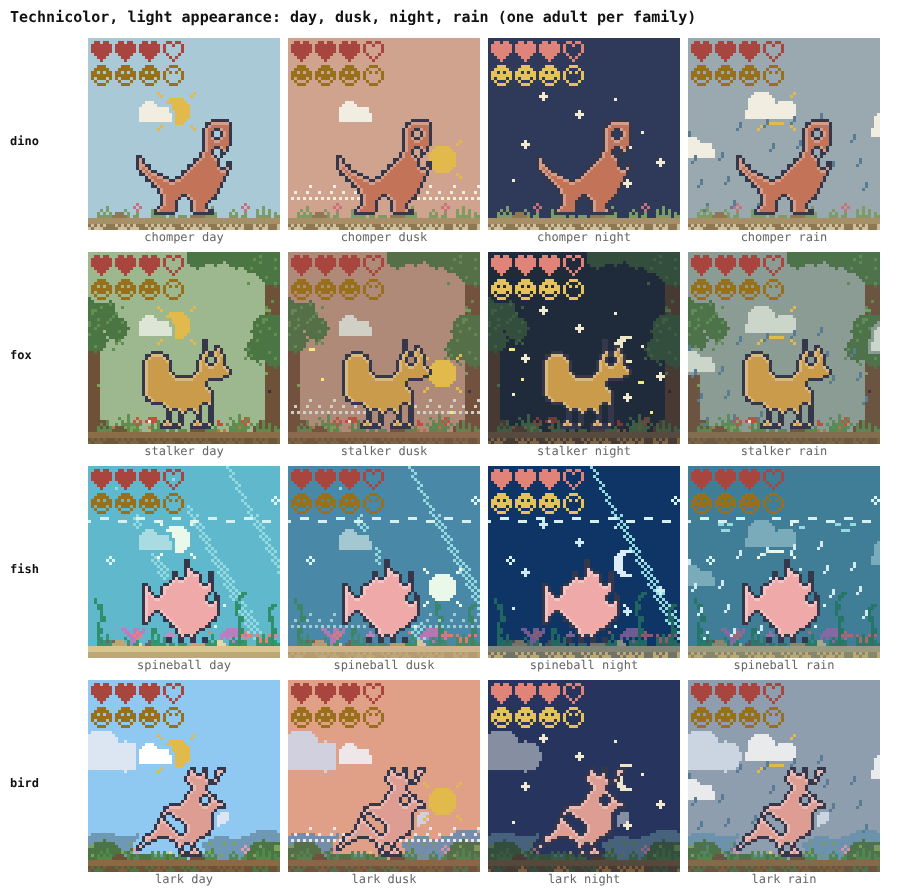
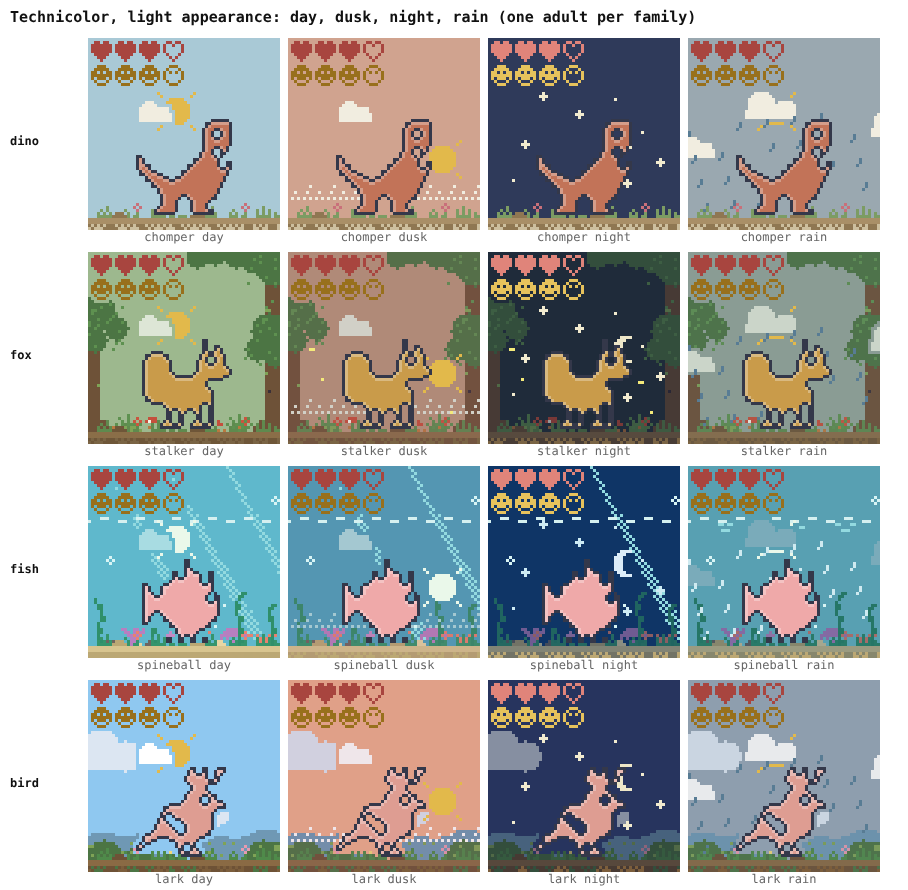
Biomes: tests (test/biomes.ts), docs, sheets, underwater sky contrast
Claude-Session: https://claude.ai/code/session_018fbADevjekvnXJm6DE1cKa

Changed region(s): [[0.7401, 0.5157, 0.9868, 0.7281]]

diff --git a/expo-prototype/test/biomes.ts b/expo-prototype/test/biomes.ts
@@ -1,0 +1,240 @@
+// Biomes: family mapping, drawing in every stage and phase, the pet is never covered, Traditional stays plain, palette completeness.
+import { forceSpecies, newPet, type Pet } from '../src/core/pet';
+import { FAMILIES, SPECIES } from '../src/core/speciesData';
+import { ALWAYS_DARK, BIOMES, EMBER_SPIRITS, FAMILY_BIOME, biomeOf, biomeOfSpecies, type Biome } from '../src/ui/biomes';
+import { ALL_LAYERS, DIM_FLAG, LAYER_COUNT, LAYER_MASK, Layer, SCENERY_FROM, tradVisible } from '../src/ui/layers';
+import { contrast, darkSky, paletteTable, skyFor, soilFor, type PaletteCtx } from '../src/ui/palette';
+import { Buf, litPath } from '../src/ui/pixel';
+import { buildFrame } from '../src/ui/render';
+import { GROUND_TAP_Y, GROUND_Y, SCENE_N, TICK_MS, initScene, phaseOf, type Phase, type Scene } from '../src/ui/scene';
+import { drawScene } from '../src/ui/sceneDraw';
+import { renderScreen } from '../src/ui/screens';
+import { hashMask } from './hash';
+import { sceneCases, lit, T0 } from './cases';
+import { GOLDEN } from './golden-traditional';
+
+declare const require: (m: string) => any; // node types are not installed; this file runs under tsx
+const { existsSync, readFileSync } = require('fs');
+let fails = 0, checks = 0;
+const ok = (c: boolean, m: string) => { checks++; if (!c) { fails++; console.log('FAIL', m); } };
+const HEX = /^#[0-9a-f]{6}$/i;
+const PHASES: Phase[] = ['dawn', 'day', 'dusk', 'night'];
+const HOURS: Record<Phase, number> = { dawn: 6, day: 12, dusk: 19, night: 23 };
+const PET_LAYERS = new Set<number>([Layer.OUTLINE, Layer.BODY, Layer.BODY_LIGHT]);
+const isCue = (l: number) => l === Layer.WAVE || l === Layer.HOLE || l === Layer.PEAK;
+
+function petOf(id: string, seed = 11): Pet {
+  const p = newPet(T0, { seed }); forceSpecies(p, id); p.named = true; p.hunger = 3; p.happy = 3; p.poops = 0; p.call = null;
+  return p;
+}
+function sceneOf(p: Pet, hour: number, x: number, facing: 1 | -1, rain = false, extra: Partial<Scene> = {}): Scene {
+  return { ...initScene(p, T0, hour), state: 'idle', x, facing, still: false, dim: false, weather: rain ? 'rain' : 'clear', poopMask: 0, props: [], pops: [], hour, minute: 0, t: 0, nowMs: T0 + 3700, ...extra };
+}
+const render = (p: Pet, sc: Scene, biome?: Biome) => { const b = new Buf(SCENE_N); drawScene(b, sc, p, biome); return b; };
+
+// 1. every family maps to a biome; spirits split by line
+{
+  for (const f of FAMILIES) ok(!!FAMILY_BIOME[f.id] && BIOMES.includes(FAMILY_BIOME[f.id]), `family ${f.id} has a biome`);
+  ok(Object.keys(FAMILY_BIOME).length === FAMILIES.length, 'no stray family in FAMILY_BIOME');
+  ok(new Set(Object.values(FAMILY_BIOME)).size === FAMILIES.length, 'each family has its own biome');
+  ok(FAMILY_BIOME.dino === 'meadow', 'dino keeps the meadow');
+  for (const s of SPECIES) {
+    const b = biomeOfSpecies(s.id, s.family);
+    ok(BIOMES.includes(b) && b !== 'meadow' === (s.family !== 'dino'), `${s.id} biome ${b}`);
+    ok(biomeOf(petOf(s.id)) === b, `${s.id}: pet biome follows the species`);
+    if (s.family === 'spirits') ok((b === 'ember') === EMBER_SPIRITS.has(s.id), `${s.id} ember split`);
+    else ok(b === FAMILY_BIOME[s.family], `${s.id} follows its family`);
+  }
+  ok(biomeOf(newPet(T0, { family: 'fish' })) === 'underwater', 'an unhatched fish egg already maps to underwater');
+  const py = '../tools/families/spirits.py';
+  if (existsSync(py)) {
+    const txt = readFileSync(py, 'utf8');
+    const m = txt.match(/LINE = \{([\s\S]*?)\n\}/);
+    const pairs = [...(m?.[1] ?? '').matchAll(/'(spirits_\w+)': '(\w+)'/g)];
+    ok(pairs.length >= 30, `parsed ${pairs.length} spirit lines from spirits.py`);
+    for (const [, id, line] of pairs) ok(EMBER_SPIRITS.has(id) === ['imp', 'horn', 'soot'].includes(line), `${id} (${line}) ember membership matches spirits.py`);
+    ok(pairs.filter(([, , l]) => l === 'halo' || l === 'baby').every(([, id]) => biomeOfSpecies(id, 'spirits') === 'clouds'), 'halo and baby spirits stay in the cloud realm');
+  }
+}
+
+// 2. biomes draw without throwing for every species (all stages), every phase, dry and rainy, both facings, with props and poops
+{
+  let drawn = 0, threw = 0;
+  const stages = new Set<string>();
+  for (const sp of SPECIES) {
+    stages.add(sp.stage);
+    const p = petOf(sp.id);
+    for (const ph of PHASES) for (const rain of [false, true]) {
+      try {
+        const sc = sceneOf(p, HOURS[ph], ph === 'dawn' ? 0 : 32, ph === 'dusk' ? -1 : 1, rain, { poopMask: ph === 'night' ? 7 : 0, props: [{ g: 'food:meat', x: 40, y: 51, n: 1, side: 1 }, { g: 'broom', x: 5, y: 51 }, { g: 'foe', x: 30, y: 44, n: 3 }], dim: ph === 'night' && rain });
+        render(p, sc); drawn++;
+      } catch (e) { threw++; console.log('  threw', sp.id, ph, String(e)); }
+    }
+  }
+  ok(threw === 0, `no biome draw throws (${drawn} draws, ${threw} threw)`);
+  ok(stages.size === 5, 'all five stages covered');
+  // every state of the scene director draws in every biome
+  const p = petOf(SPECIES.find((s) => s.family === 'fox' && s.stage === 'adult')!.id);
+  for (const b of BIOMES) for (const st of ['idle', 'walk', 'sleep', 'eat', 'battle', 'dance', 'poop'] as const) {
+    try { render(p, sceneOf(p, 12, 10, 1, false, { state: st }), b); } catch { ok(false, `state ${st} in ${b}`); }
+  }
+}
+
+// 3. the pet is never overwritten, scenery keeps off its silhouette, and the shared meadow layers are untouched
+{
+  let petPix = 0, bad = 0, ringBad = 0, sharedBad = 0, cases = 0;
+  for (const sp of SPECIES.filter((s) => s.family !== 'dino')) {
+    const p = petOf(sp.id, 3);
+    for (const [ph, x, facing] of [['day', 0, 1], ['night', 16, -1], ['dusk', 32, 1], ['dawn', 9, -1]] as [Phase, number, 1 | -1][]) {
+      const sc = sceneOf(p, HOURS[ph], x, facing, ph === 'dawn');
+      const a = render(p, sc), m = render(p, sc, 'meadow');
+      cases++;
+      for (let i = 0; i < a.px.length; i++) {
+        const la = a.px[i] & LAYER_MASK, lm = m.px[i] & LAYER_MASK;
+        if (PET_LAYERS.has(lm)) { petPix++; if (a.px[i] !== m.px[i]) bad++; }
+        // shared layers identical to the meadow render, ignoring scenery and cue pixels
+        const na = la >= Layer.WAVE ? a.px[i] & DIM_FLAG : a.px[i], nm = lm >= Layer.WAVE ? m.px[i] & DIM_FLAG : m.px[i];
+        if (na !== nm) sharedBad++;
+        if (la >= SCENERY_FROM) {
+          const cx = i % SCENE_N, cy = (i / SCENE_N) | 0;
+          for (let dy = -1; dy <= 1; dy++) for (let dx = -1; dx <= 1; dx++) {
+            const nx = cx + dx, ny = cy + dy;
+            if (nx >= 0 && ny >= 0 && nx < SCENE_N && ny < SCENE_N && PET_LAYERS.has(a.px[ny * SCENE_N + nx] & LAYER_MASK)) ringBad++;
+          }
+        }
+      }
+    }
+  }
+  ok(petPix > 100000, `pet pixels checked (${petPix} over ${cases} renders)`);
+  ok(bad === 0, `the pet's footprint is never overwritten by background pixels (${bad} differ)`);
+  ok(ringBad === 0, `no scenery pixel touches the pet silhouette (${ringBad})`);
+  ok(sharedBad === 0, `shared meadow layers are identical to the meadow render outside scenery and cues (${sharedBad} differ)`);
+}
+
+// 4. dino stays the meadow: byte-identical Traditional (golden) and no biome layer ever drawn for it
+{
+  const cases = sceneCases();
+  let bad = 0;
+  for (const c of cases) if (GOLDEN[c.name] !== hashMask(lit(c.draw()))) bad++;
+  ok(bad === 0, `dino Traditional golden unchanged (${cases.length} cases, ${bad} differ)`);
+  let stray = 0;
+  for (const sp of SPECIES.filter((s) => s.family === 'dino')) {
+    const p = petOf(sp.id);
+    for (const ph of PHASES) for (const rain of [false, true]) {
+      const sc = sceneOf(p, HOURS[ph], 10, 1, rain);
+      const a = render(p, sc), m = render(p, sc, 'meadow');
+      for (let i = 0; i < a.px.length; i++) { if ((a.px[i] & LAYER_MASK) >= Layer.WAVE) stray++; if (a.px[i] !== m.px[i]) stray++; }
+    }
+  }
+  ok(stray === 0, `dino scenes contain no biome pixels (${stray})`);
+}
+
+// 5. Traditional mode: scenery prints unlit, only a handful of cue pixels differ from the meadow
+{
+  let worst = 0, leaked = 0, cueSeen = new Set<number>();
+  for (const sp of SPECIES.filter((s) => s.stage === 'adult')) {
+    const p = petOf(sp.id, 5);
+    for (const ph of PHASES) for (const rain of [false, true]) {
+      const sc = sceneOf(p, HOURS[ph], 14, 1, rain);
+      const a = render(p, sc), m = render(p, sc, 'meadow');
+      const f = buildFrame({ buf: a, dark: false }, { mode: 'traditional', dark: false });
+      const px = Uint8Array.from(a.px, (v) => ((v & LAYER_MASK) >= SCENERY_FROM ? v & DIM_FLAG : v));
+      ok(f.groups.length === 1 && f.groups[0].d === litPath(px, SCENE_N), `${sp.id} ${ph}: Traditional drops scenery`);
+      let extra = 0;
+      for (let i = 0; i < a.px.length; i++) {
+        const l = a.px[i] & LAYER_MASK;
+        if (isCue(l)) cueSeen.add(l);
+        const shown = (l < SCENERY_FROM) ? (a.px[i] ? 1 : 0) : (a.px[i] & DIM_FLAG ? 1 : 0);
+        if (shown !== (m.px[i] ? 1 : 0)) extra++;
+        if (l >= SCENERY_FROM && !(a.px[i] & DIM_FLAG) && shown) leaked++;
+      }
+      worst = Math.max(worst, extra);
+    }
+  }
+  ok(leaked === 0, 'no scenery pixel is lit in Traditional');
+  ok(worst <= 80, `Traditional differs from the meadow by at most ${worst} cue pixels (<= 80)`);
+  ok(cueSeen.size === 3, `all three cue layers appear (${[...cueSeen].join(',')})`);
+  ok(tradVisible(Layer.PEAK) && !tradVisible(Layer.BARK) && SCENERY_FROM === Layer.BARK, 'layer visibility split');
+}
+
+// 6. Technicolor palette: every layer coloured for every biome x appearance x phase x rain; sky and soil per biome
+{
+  const seen = new Set<number>();
+  let drawnPx = 0, maxScenery = 0, maxGroups = 0;
+  for (const b of BIOMES) {
+    for (const dark of [false, true]) for (const ph of PHASES) for (const rain of [false, true]) {
+      const ctx: PaletteCtx = { mode: 'technicolor', dark, line: 'meat', biome: b, phase: ph, rain, night: darkSky(b, ph) };
+      const t = paletteTable(ctx);
+      ok(t.length === LAYER_COUNT + 1, 'palette table sized by LAYER_COUNT');
+      for (const l of ALL_LAYERS) if (!HEX.test(t[l])) ok(false, `layer ${l} colour in ${b}/${ph}`);
+      ok(HEX.test(skyFor(ctx, ph, rain, b)) && HEX.test(soilFor(ctx, b)), `sky and soil colours for ${b} ${ph}`);
+    }
+  }
+  // fish: water-tinted in every phase, deeper at night, darker for rain
+  for (const ph of PHASES) { const c = skyFor({ mode: 'technicolor', dark: false }, ph, false, 'underwater'); const [r, g, bl] = [1, 3, 5].map((i) => parseInt(c.slice(i, i + 2), 16)); ok(bl > r && bl >= g - 30, `underwater ${ph} sky is water-blue (${c})`); }
+  const lum = (c: string) => contrast(c, '#000000');
+  const uw = (ph: Phase, rain = false) => skyFor({ mode: 'technicolor', dark: false }, ph, rain, 'underwater');
+  ok(lum(uw('day')) > lum(uw('dusk')) && lum(uw('dusk')) > lum(uw('night')) && lum(uw('day')) > lum(uw('day', true)), 'underwater: brighter by day, deep at night, darker in rain');
+  ok(new Set(BIOMES.map((b) => skyFor({ mode: 'technicolor', dark: false }, 'day', false, b))).size >= 9, 'biomes have distinct day skies');
+  // render every family in every phase and appearance
+  const fams = ['dino', 'fox', 'fish', 'bird', 'cat', 'spirits', 'bunny', 'dragon', 'bot', 'slime', 'bug'];
+  const ids = [...fams.map((f) => SPECIES.find((s) => s.family === f && s.stage === 'adult')!.id), 'spirits_emberhorn'];
+  for (const id of ids) {
+    const p = petOf(id, 8);
+    const biome = biomeOf(p);
+    for (const ph of PHASES) for (const rain of [false, true]) for (const dark of [false, true]) {
+      const sc = sceneOf(p, HOURS[ph], 16, 1, rain);
+      const r = renderScreen({ pet: p, tick: 0, mode: 'home', feedSel: 0, play: null, statsPage: 0, dexPage: 0, evo: null, scene: sc });
+      ok(r.sky?.biome === biome && r.sky.phase === phaseOf(HOURS[ph]), `${id} ${ph}: sky info carries the biome`);
+      const f = buildFrame(r, { mode: 'technicolor', dark, line: 'meat', bodyHex: undefined });
+      let sc2 = 0;
+      for (const v of r.buf.px) { const l = v & LAYER_MASK; if (l) seen.add(l); if (l >= SCENERY_FROM) sc2++; }
+      drawnPx++;
+      maxScenery = Math.max(maxScenery, sc2); maxGroups = Math.max(maxGroups, f.groups.length);
+      const painted = f.groups.reduce((a, g) => a + (g.d.match(/M/g)?.length ?? 0), 0);
+      ok(painted === r.buf.px.reduce((a, v) => a + (v ? 1 : 0), 0), `${id} ${ph}: every lit pixel painted once`);
+      ok(new Set(f.groups.map((g) => g.color)).size === f.groups.length, 'one path per colour');
+      // readability on this biome's backdrop: ink and the hearts against the sky
+      const sky = skyFor({ mode: 'technicolor', dark }, phaseOf(HOURS[ph]), rain, biome);
+      const t = paletteTable({ mode: 'technicolor', dark, line: 'meat', biome, phase: phaseOf(HOURS[ph]), rain, night: darkSky(biome, phaseOf(HOURS[ph])) });
+      ok(contrast(t[Layer.INK], sky) >= 3, `${biome} ${ph}${rain ? '/rain' : ''} ${dark ? 'dark' : 'light'}: ink vs sky ${contrast(t[Layer.INK], sky).toFixed(2)} >= 3`);
+      ok(contrast(t[Layer.HEART], sky) >= 1.6, `${biome} ${ph}${rain ? '/rain' : ''} ${dark ? 'dark' : 'light'}: heart vs sky ${contrast(t[Layer.HEART], sky).toFixed(2)} >= 1.6`);
+    }
+  }
+  const missing = ALL_LAYERS.filter((l) => l >= Layer.WAVE && !seen.has(l));
+  ok(missing.length === 0, `every biome layer appears in some scene (missing: ${missing.join(',')})`);
+  ok(maxScenery <= 1300, `background pixel budget (max ${maxScenery} scenery pixels <= 1300)`);
+  ok(maxGroups <= 70, `few SVG paths per biome frame (max ${maxGroups} <= 70)`);
+  ok(ALWAYS_DARK.has('swamp') && !ALWAYS_DARK.has('woods'), 'always-dark biomes');
+  void drawnPx;
+}
+
+// 7. gameplay geometry is untouched: ground row, ground tap row, ground band in every biome, props drawn over the scenery
+{
+  ok(GROUND_Y === 60 && GROUND_TAP_Y === 52, 'ground and tap rows unchanged');
+  for (const b of BIOMES) {
+    const p = petOf(SPECIES.find((s) => s.family === 'fox' && s.stage === 'adult')!.id);
+    const buf = render(p, sceneOf(p, 12, 0, 1, false, { props: [{ g: 'food:meat', x: 52, y: 50, n: 0, side: 1 }, { g: 'broom', x: 38, y: 50 }, { g: 'ball', x: 44, y: 34 }, { g: 'foe', x: 12, y: 40, n: 3 }] }), b);
+    let ground = 0, food = 0, tool = 0, ball = 0;
+    for (let x = 0; x < SCENE_N; x++) if ((buf.px[GROUND_Y * SCENE_N + x] & LAYER_MASK) === Layer.GROUND) ground++;
+    for (const v of buf.px) { const l = v & LAYER_MASK; if (l === Layer.FOOD_MEAT) food++; if (l === Layer.TOOL) tool++; if (l === Layer.BALL) ball++; }
+    ok(ground >= 56, `${b}: ground band intact (${ground}/64 columns)`);
+    ok(food > 30 && tool > 15 && ball > 20, `${b}: food, broom and ball props are drawn (${food}/${tool}/${ball})`);
+  }
+}
+
+// 8. cost: a biome frame is cheap (no per-frame allocation of the static art; budget generous for CI)
+{
+  const p = petOf(SPECIES.find((s) => s.family === 'bot' && s.stage === 'adult')!.id);
+  const sc = sceneOf(p, 12, 10, 1);
+  const buf = new Buf(SCENE_N);
+  for (let i = 0; i < 20; i++) drawScene(buf, sc, p);
+  const t0 = process.hrtime.bigint();
+  const N = 300;
+  for (let i = 0; i < N; i++) { buf.px.fill(0); drawScene(buf, { ...sc, nowMs: T0 + i * TICK_MS }, p); }
+  const ms = Number(process.hrtime.bigint() - t0) / 1e6 / N;
+  ok(ms < 3, `biome scene draws in ${ms.toFixed(2)} ms/frame (< 3)`);
+}
+
+console.log(fails ? `biomes: ${fails} FAILED of ${checks}` : `biomes: all ${checks} checks passed`);
+if (fails) process.exit(1);

diff --git a/expo-prototype/tools/biome-dump.ts b/expo-prototype/tools/biome-dump.ts
@@ -1,6 +1,5 @@
 // Dumps the real renderer's frames (renderScreen + buildFrame) for biome contact sheets. Used by tools/biome-sheets.js:
 //   tsx tools/biome-dump.ts out.json
-import { writeFileSync } from 'fs';
 import { forceSpecies, newPet } from '../src/core/pet';
 import { SPECIES } from '../src/core/speciesData';
 import { bodyOf, buildFrame, lineOf } from '../src/ui/render';
@@ -8,6 +7,9 @@ import { screenColors } from '../src/ui/palette';
 import { TICK_MS, initScene, type Scene } from '../src/ui/scene';
 import { renderScreen } from '../src/ui/screens';
 
+declare const require: (m: string) => any;
+declare const process: { argv: string[] };
+const { writeFileSync } = require('fs');
 const T = 1_800_000_000_000 - (1_800_000_000_000 % TICK_MS);
 const FAMS = ['dino', 'fox', 'fish', 'bird', 'cat', 'spirits', 'bunny', 'dragon', 'bot', 'slime', 'bug'];
 const ENTRIES: [string, string][] = FAMS.map((f) => [f, SPECIES.find((s) => s.family === f && s.stage === 'adult')!.id]);

diff --git a/expo-prototype/tools/biome-sheets.js b/expo-prototype/tools/biome-sheets.js
@@ -5,6 +5,7 @@
  *   node tools/biome-sheets.js        -> docs/screens/biomes-light-{1,2,3}.png, biomes-dark.png, biomes-traditional.png
  *   CHROME=/path/to/chrome            (default /opt/pw-browsers/chromium-1194/chrome-linux/chrome)
  */
+/* global __dirname */
 const fs = require('fs');
 const os = require('os');
 const path = require('path');
@@ -25,8 +26,6 @@ fs.unlinkSync(tmp);
 
 function svg(c, size) {
   const f = c.frame, n = f.n;
-  let cells = '';
-  for (let y = 0; y < n; y++) for (let x = 0; x < n; x++) cells += `M${x + 0.06} ${y + 0.06}h0.88v0.88h-0.88z`;
   return `<svg width="${size}" height="${size}" viewBox="0 0 ${n} ${n}" shape-rendering="crispEdges"><rect width="${n}" height="${n}" fill="${c.ground}"/>`
     + (f.soil ? `<rect y="${f.soil.y}" width="${n}" height="${n - f.soil.y}" fill="${f.soil.color}"/>` : '')
     + (f.sky ? `<rect width="${n}" height="${f.sky.h}" fill="${f.sky.color}"/>` : '')

diff --git a/expo-prototype/src/ui/palette.ts b/expo-prototype/src/ui/palette.ts
@@ -113,7 +113,7 @@ function shadeFor(ctx: PaletteCtx): [string, number] | null {
 // Per biome and phase: dawn, day, dusk, night and rain sky; plus the fill under the ground band.
 const SKY_BIOME: Record<Exclude<Biome, 'meadow'>, Record<Phase | 'rain', string>> = {
   woods: { dawn: '#C9C79C', day: '#9DB88E', dusk: '#B08A78', night: '#1F2B3A', rain: '#8A9C94' },
-  underwater: { dawn: '#6AB0C2', day: '#5FB8CC', dusk: '#4A88A8', night: '#0F3566', rain: '#3F7E96' },
+  underwater: { dawn: '#6AB0C2', day: '#5FB8CC', dusk: '#5496B2', night: '#0F3566', rain: '#58A0B2' },
   sky: { dawn: '#F0C9A8', day: '#8FC8F0', dusk: '#E0A088', night: '#27345E', rain: '#8E9EAE' },
   yard: { dawn: '#E6CBA9', day: '#B3D0DC', dusk: '#D2A08C', night: '#2A3558', rain: '#9CAAB2' },
   clouds: { dawn: '#F0D4DC', day: '#C3D2F2', dusk: '#D8BCE4', night: '#3A3E7A', rain: '#B1B8D4' },

diff --git a/expo-prototype/docs/BIOMES.md b/expo-prototype/docs/BIOMES.md
@@ -1,0 +1,30 @@
+# Biomes
+
+Each pet family has its own background, chosen by the species' family (`src/ui/biomes.ts`).
+
+| family | biome | notes |
+|---|---|---|
+| dino | meadow | unchanged; Traditional goldens must stay byte-identical |
+| fox | woods | trunks, canopy, ferns, moss, litter, mushrooms, fireflies at dusk and night |
+| fish | underwater | water-tinted sky in every phase, light shafts, bubbles, seaweed, coral, sand |
+| bird | sky | big clouds, distant hills, treetop canopy, branch floor, nest |
+| cat | yard | fence, neighbour's roof and window glow, garden bed, flowerpot, yarn |
+| spirits | clouds | pastel sky, cloud floor, twinkling stars by day |
+| spirits (imp, horn, soot lines) | ember | warm glow, ash, embers, rocky floor |
+| bunny | warren | burrow, clover, tall grass, carrots, daisies |
+| dragon | crags | crags, cave mouth, volcano, rocky floor with lava cracks at night |
+| bot | workshop | wall plates, gears, blinking LEDs, cables, monitor, grid floor |
+| slime | swamp | stalactites and drips, glowing mushrooms, puddles |
+| bug | garden | giant leaves, flower heads, dew, long grass |
+
+## How it is drawn
+
+* `drawScene` still paints the meadow (sky, sun/moon/stars, clouds, rain, ground band, tufts, flowers, butterfly) for every family.
+  `biomeDraw.ts` adds scenery **under** it (`drawBackdrop`, an empty buffer) and floor props **over empty pixels** after it (`drawFore`).
+* The palette re-colours the shared layers per biome (`REMAP` in `palette.ts`: sun becomes surface light underwater, clouds become smoke in the ember realm, grass becomes seaweed, ...), and gives every biome a sky per phase and a soil colour.
+* Scenery uses Technicolor-only layer codes (`Layer.BARK` and up, `SCENERY_FROM`). Traditional renders them unlit, so Traditional stays the plain scene plus three tiny cues: `WAVE` (fish surface line), `HOLE` (bunny burrow arch), `PEAK` (dragon far peak).
+* The pet clears a 1 px ring of scenery around its silhouette (`drawPet`); shared layers are never touched, so Traditional and the dino are unaffected.
+* Static art is painted once per (biome, phase, rain) and blitted from a cache; only animated bits are drawn per frame.
+* Caves, the ember realm and the lit workshop have a dark backdrop in every phase (`ALWAYS_DARK`): HUD glyphs use the night ink there.
+
+Sheets: `node tools/biome-sheets.js` writes `docs/screens/biomes-*.png`. Tests: `test/biomes.ts`.
